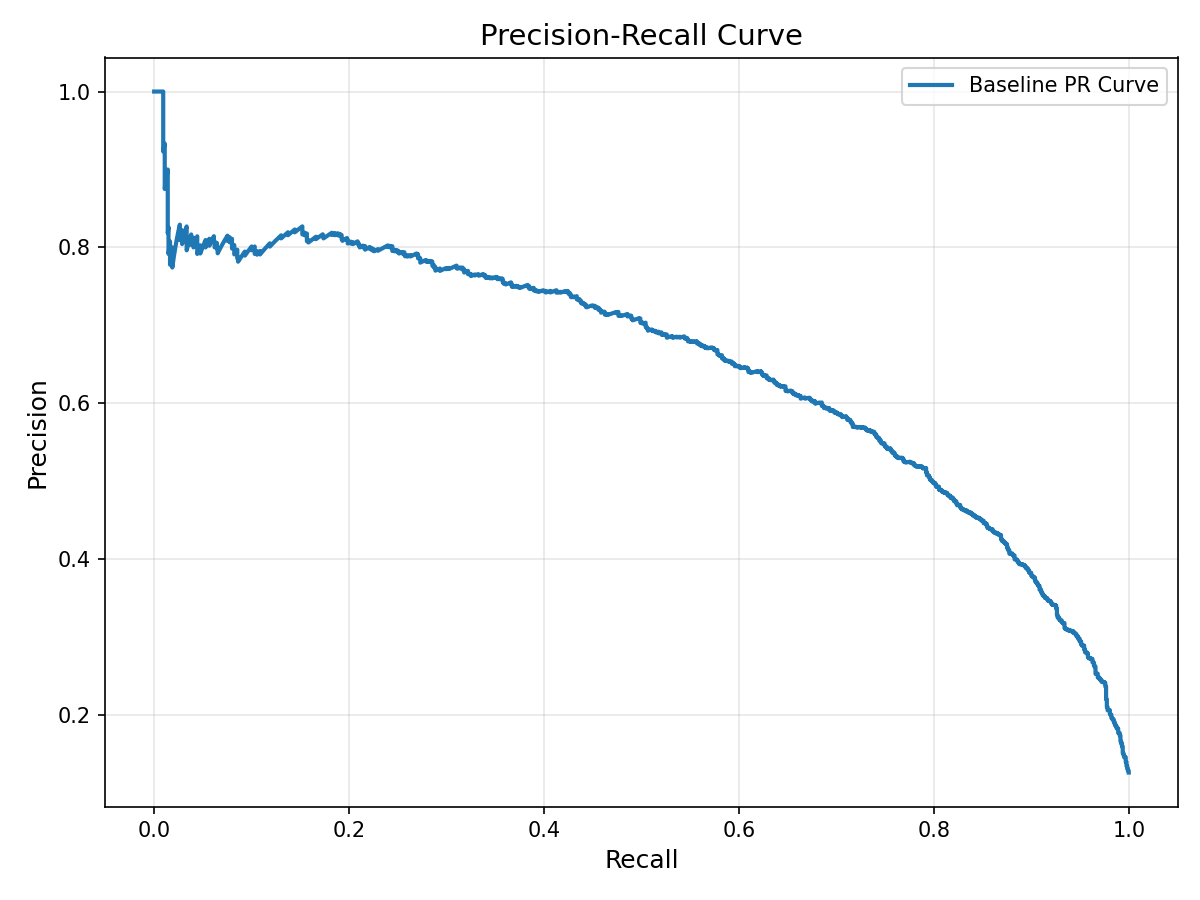
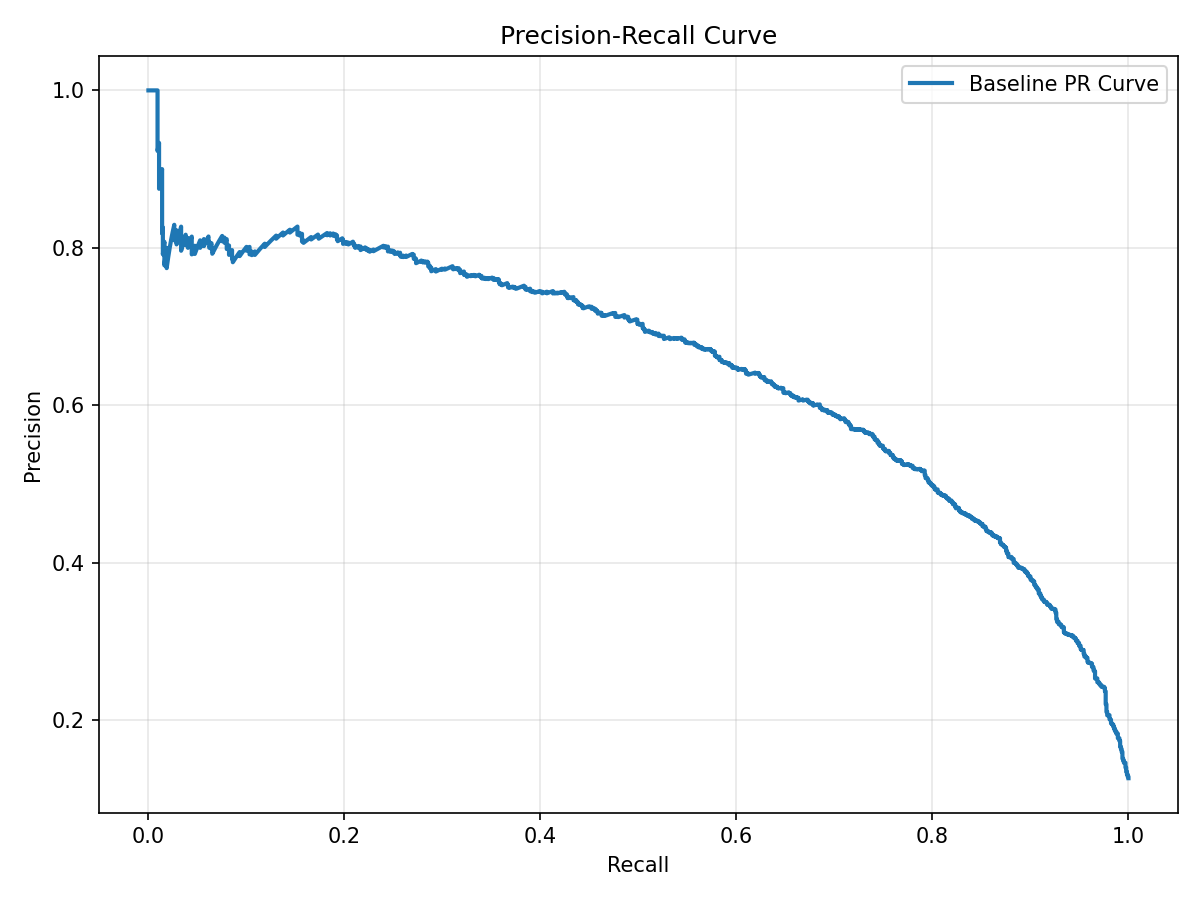
add aws integrations

diff --git a/run_pipeline.py b/run_pipeline.py
@@ -1,7 +1,7 @@
 """
-Local MLOps Simulation: Full Churn Pipeline
-- Preprocess → Batches → Train → Drift Detect → Retrain → Log MLflow → Alert → Schedule
-- Usage: python run_pipeline.py
+Local MLOps Simulation: Full Churn Pipeline with AWS Toggle
+- USE_AWS = False: Core pipeline only (no AWS).
+- USE_AWS = True: Calls aws folder files for real S3/Lambda/EC2 (.env keys).
 """
 
 from sklearn.metrics import precision_recall_curve
@@ -15,6 +15,21 @@ import mlflow.xgboost
 import schedule
 import time
 from datetime import datetime
+import json 
+
+# AWS Toggle
+USE_AWS = False 
+
+if USE_AWS:
+    from dotenv import load_dotenv
+    import boto3
+    from src.aws.s3_upload import upload_to_s3
+    from src.aws.trigger_retrain import trigger_retrain
+    from src.aws.deploy_model import deploy_model
+    load_dotenv()  # Loads .env
+    print("AWS ON: Using real S3/Lambda/EC2 via aws folder (.env keys)")
+else:
+    print("AWS OFF: Core pipeline only (no AWS calls)")
 
 from src.data.preprocessing import load_and_preprocess
 from src.data.batch_generator import generate_batches
@@ -22,22 +37,15 @@ from src.model.train import train_model
 from src.model.drift_detector import detect_drift
 from src.config import NUMERIC_FEATURES, CATEGORICAL_FEATURES, TARGET, PSI_THRESHOLD
 
-# =========================
 # MLflow Setup
-# =========================
 mlflow.set_tracking_uri("sqlite:///mlflow.db")
 mlflow.set_experiment("Churn Drift Pipeline")
 
-# =========================
 # Logging Setup
-# =========================
 logging.basicConfig(level=logging.INFO, format="%(asctime)s - %(levelname)s - %(message)s")
 logger = logging.getLogger(__name__)
 
-
-# =========================
 # Pipeline Function
-# =========================
 def run_pipeline():
     logger.info("Pipeline started...")
 
@@ -55,11 +63,16 @@ def run_pipeline():
 
             logger.info(f"Batches generated: {len(batches)}")
 
-            # Log parameters EARLY
+            # Log parameters
             mlflow.log_param("n_batches", 5)
             mlflow.log_param("psi_threshold", PSI_THRESHOLD)
             mlflow.log_param("target", TARGET)
             logger.info("Parameters logged")
+
+            # AWS: Upload batches if on
+            if USE_AWS:
+                upload_to_s3('data/batches/batch_0.csv')  # Calls s3_upload.py
+                # Repeat for other batches if needed
 
             # 2. Baseline Train
             logger.info("Step 2: Training baseline...")
@@ -72,11 +85,15 @@ def run_pipeline():
 
             logger.info(f"Baseline: F1={f1_base:.3f}, AUC={auc_base:.3f}")
 
-            # Log baseline metrics immediately
+            # Log baseline metrics
             mlflow.log_metric("baseline_f1", f1_base)
             mlflow.log_metric("baseline_auc", auc_base)
             mlflow.log_param("baseline_threshold", threshold_base)
             logger.info("Baseline metrics logged")
+
+            # AWS: Upload baseline model if on
+            if USE_AWS:
+                upload_to_s3('models/baseline_model_improved.pkl')  # Calls s3_upload.py
 
             # 3. Drift Detection
             logger.info("Step 3: Detecting drift...")
@@ -96,6 +113,10 @@ def run_pipeline():
             mlflow.log_metric("drift_psi_avg", drift_psi_avg)
             mlflow.log_param("drift_threshold", PSI_THRESHOLD)
             logger.info("Drift metrics logged")
+
+            # AWS: Trigger Lambda if on
+            if USE_AWS and has_drift:
+                trigger_retrain(drift_psi_avg)  # Calls trigger_retrain.py
 
             # 4. Retrain if Drift
             f1_re = f1_base
@@ -133,6 +154,10 @@ def run_pipeline():
                 mlflow.log_param("retrained_threshold", threshold_re)
                 mlflow.log_param("retrained", True)
                 logger.info("Retrain metrics logged")
+
+                # AWS: Deploy model if on
+                if USE_AWS:
+                    deploy_model('models/retrained_model.pkl')  # Calls deploy_model.py
             else:
                 mlflow.log_param("retrained", False)
 
@@ -152,9 +177,9 @@ def run_pipeline():
 
             plt.figure(figsize=(8, 6))
             plt.plot(recall, precision, label="Baseline PR Curve", linewidth=2)
-            plt.xlabel("Recall", fontsize=12)
-            plt.ylabel("Precision", fontsize=12)
-            plt.title("Precision-Recall Curve", fontsize=14)
+            plt.xlabel("Recall")
+            plt.ylabel("Precision")
+            plt.title("Precision-Recall Curve")
             plt.legend()
             plt.grid(True, alpha=0.3)
             plt.tight_layout()
@@ -191,9 +216,7 @@ def run_pipeline():
         raise
 
 
-# =========================
 # Scheduler
-# =========================
 def job():
     try:
         run_pipeline()
@@ -202,11 +225,9 @@ def job():
 
 
 if __name__ == "__main__":
-
     print("Running pipeline immediately...")
     
     job()
-
 
     print("Scheduler started (daily at 02:00)")
     print("  Press Ctrl+C to stop")

diff --git a/src/aws/lambda_handler.py b/src/aws/lambda_handler.py
@@ -1,45 +1,9 @@
 import json
-import boto3
-import pandas as pd
-from io import StringIO
-from src.model.drift_detector import detect_drift
-from src.model.train import train_model  # Import your train func
-from src.config import S3_BUCKET, S3_RAW_PREFIX, S3_LOGS_PREFIX, PSI_THRESHOLD
-
-s3 = boto3.client('s3')
 
 def lambda_handler(event, context):
-    # Step 1: Download baseline & current batch from S3
-    baseline_obj = s3.get_object(Bucket=S3_BUCKET, Key=f'{S3_RAW_PREFIX}baseline.csv')
-    current_obj = s3.get_object(Bucket=S3_BUCKET, Key=f'{S3_RAW_PREFIX}current_batch.csv')
-    
-    baseline_df = pd.read_csv(StringIO(baseline_obj['Body'].read().decode('utf-8')))
-    current_df = pd.read_csv(StringIO(current_obj['Body'].read().decode('utf-8')))
-    
-    # Step 2: Detect drift
-    drifts, has_drift = detect_drift(baseline_df, current_df)
-    
-    # Step 3: If drift, trigger retrain
-    if has_drift:
-        print(f"Drift detected! PSI exceeds {PSI_THRESHOLD}")
-        # Trigger SageMaker job (use boto3.sagemaker)
-        sagemaker = boto3.client('sagemaker')
-        sagemaker.create_training_job(
-            TrainingJobName='churn-retrain-job',
-            AlgorithmSpecification={'TrainingImage': 'your-image', 'TrainingInputMode': 'File'},
-            # Add your S3 inputs, output path, etc.
-        )
-        # After training, deploy (call deploy_model.py)
-    else:
-        print("No drift - model stable")
-    
-    # Log results to CloudWatch/S3
-    log_df = pd.DataFrame(drifts).T
-    csv_buffer = StringIO()
-    log_df.to_csv(csv_buffer)
-    s3.put_object(Bucket=S3_BUCKET, Key=f'{S3_LOGS_PREFIX}drift_log_{pd.Timestamp.now().strftime("%Y%m%d")}.csv', Body=csv_buffer.getvalue())
-    
+    psi_avg = event.get('psi_avg', 0)
+    print(f"Lambda Alert: PSI {psi_avg:.3f} — Drift detected!")
     return {
         'statusCode': 200,
-        'body': json.dumps({'drift_detected': has_drift, 'details': drifts})
+        'body': json.dumps({'message': 'Alert sent', 'psi': psi_avg})
     }

diff --git a/src/aws/trigger_retrain.py b/src/aws/trigger_retrain.py
@@ -1,0 +1,8 @@
+import boto3
+import json
+
+def trigger_retrain(psi_avg, bucket='cell2cell-bucket'):
+    lambda_svc = boto3.client('lambda')
+    payload = json.dumps({'psi_avg': psi_avg, 'bucket': bucket})
+    response = lambda_svc.invoke(FunctionName='drift-alert-lambda', Payload=payload)
+    print(f" Lambda Triggered: drift-alert-lambda (status: {response['StatusCode']})")

diff --git a/src/aws/deploy_model.py b/src/aws/deploy_model.py
@@ -1,0 +1,8 @@
+import boto3
+import json
+
+def trigger_retrain(psi_avg, bucket='cell2cell-bucket'):
+    lambda_svc = boto3.client('lambda')
+    payload = json.dumps({'psi_avg': psi_avg, 'bucket': bucket})
+    response = lambda_svc.invoke(FunctionName='drift-alert-lambda', Payload=payload)
+    print(f"Lambda Triggered: drift-alert-lambda (status: {response['StatusCode']})")

diff --git a/src/aws/s3_upload.py b/src/aws/s3_upload.py
@@ -1,0 +1,9 @@
+import boto3
+
+def upload_to_s3(file_path, bucket='cell2cell-bucket', key=None):
+    if key is None:
+        key = file_path.split('/')[-1]
+    s3 = boto3.client('s3')
+    s3.upload_file(file_path, bucket, key)
+    print(f"S3 Upload: {key} → s3://{bucket}/{key}")
+    return f"s3://{bucket}/{key}"
